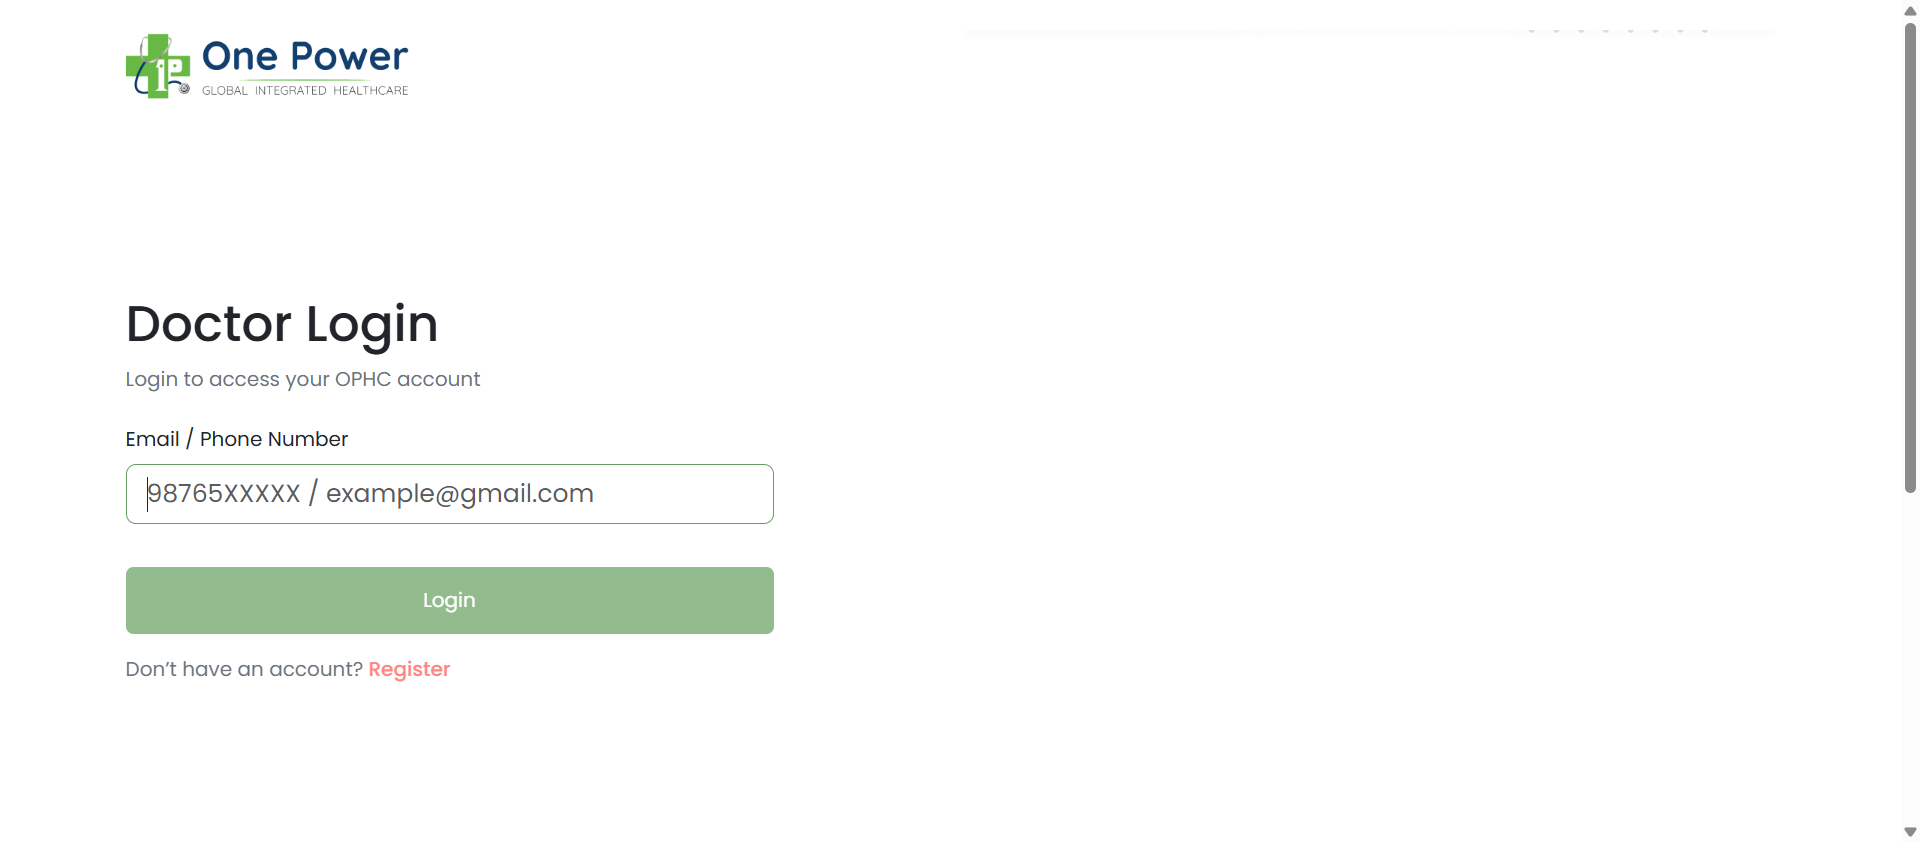
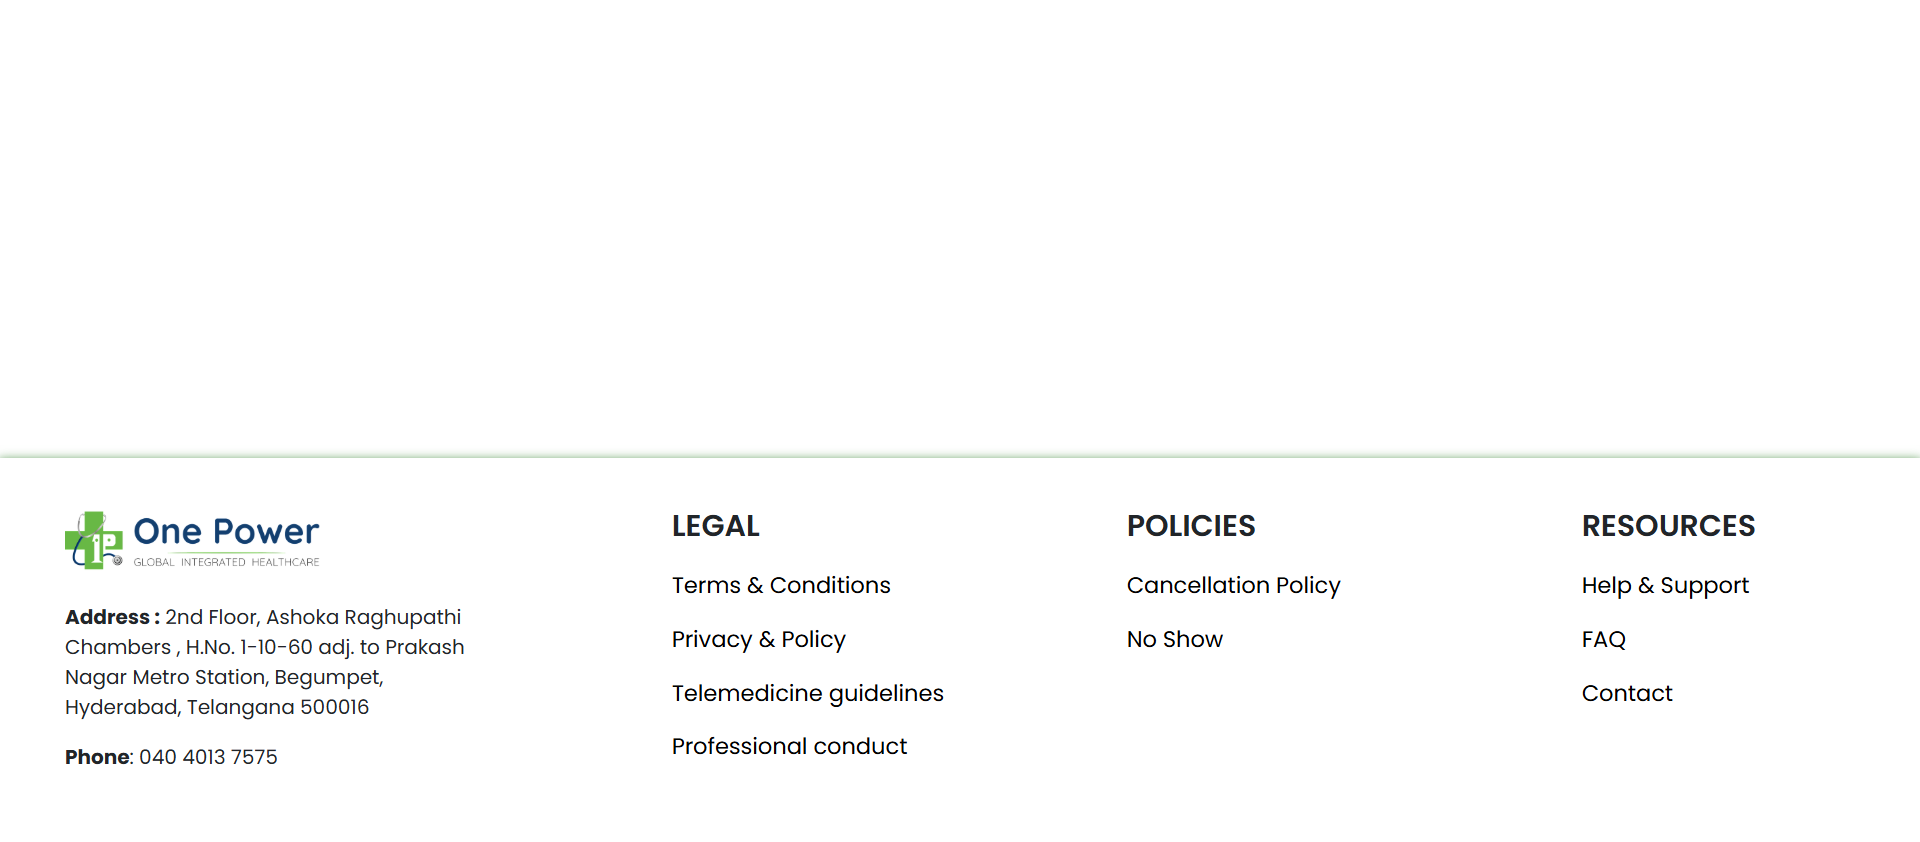
c

diff --git a/test-output/old/Default suite/toc.html b/test-output/old/Default suite/toc.html
@@ -10,10 +10,10 @@
 <tr valign='top'>
 <td>1 test</td>
 <td><a target='mainFrame' href='classes.html'>1 class</a></td>
-<td>1 method:<br/>
+<td>6 methods:<br/>
 &nbsp;&nbsp;<a target='mainFrame' href='methods.html'>chronological</a><br/>
 &nbsp;&nbsp;<a target='mainFrame' href='methods-alphabetical.html'>alphabetical</a><br/>
-&nbsp;&nbsp;<a target='mainFrame' href='methods-not-run.html'>not run (5)</a></td>
+&nbsp;&nbsp;<a target='mainFrame' href='methods-not-run.html'>not run (0)</a></td>
 </tr>
 <tr>
 <td><a target='mainFrame' href='groups.html'>0 group</a></td>
@@ -22,7 +22,7 @@
 </tr></table>
 <table width='100%' class='test-failed'>
 <tr><td>
-<table style='width: 100%'><tr><td valign='top'>Default test (0/1/0)</td><td valign='top' align='right'>
+<table style='width: 100%'><tr><td valign='top'>Default test (3/3/0)</td><td valign='top' align='right'>
   <a href='Default test.html' target='mainFrame'>Results</a>
 </td></tr></table>
 </td></tr><p/>

diff --git a/test-output/old/Default suite/methods-not-run.html b/test-output/old/Default suite/methods-not-run.html
@@ -1,7 +1,2 @@
 <h2>Methods that were not run</h2><table>
-<tr><td>all.Total.LoginToAdminAndApproveNewlyAddedDoctorTest</td></tr>
-<tr><td>all.Total.rejectedDoctorReSubmitingDocumentsTest</td></tr>
-<tr><td>all.Total.DoctorRegistrationTest</td></tr>
-<tr><td>all.Total.loginToDoctorPannelSettingDoctorAvailabilityTest</td></tr>
-<tr><td>all.Total.AdminApprovingDoctorAfterReuploadingDocs</td></tr>
 </table>

diff --git a/test-output/old/index.html b/test-output/old/index.html
@@ -4,6 +4,6 @@
 </head><body>
 <h2><p align='center'>Test results</p></h2>
 <table border='1' width='100%' class='main-page'><tr><th>Suite</th><th>Passed</th><th>Failed</th><th>Skipped</th><th>testng.xml</th></tr>
-<tr align='center' class='invocation-failed'><td><em>Total</em></td><td><em>0</em></td><td><em>1</em></td><td><em>0</em></td><td>&nbsp;</td></tr>
+<tr align='center' class='invocation-failed'><td><em>Total</em></td><td><em>3</em></td><td><em>3</em></td><td><em>0</em></td><td>&nbsp;</td></tr>
 <tr align='center' class='invocation-failed'><td><a href='Default suite/index.html'>Default suite</a></td>
-<td>0</td><td>1</td><td>0</td><td><a href='Default suite/testng.xml.html'>Link</a></td></tr></table></body></html>
+<td>3</td><td>3</td><td>0</td><td><a href='Default suite/testng.xml.html'>Link</a></td></tr></table></body></html>

diff --git a/test-output/old/Default suite/testng.xml.html b/test-output/old/Default suite/testng.xml.html
@@ -1,1 +1,1 @@
-<html><head><title>testng.xml for Default suite</title></head><body><tt>&lt;?xml&nbsp;version="1.0"&nbsp;encoding="UTF-8"?&gt;
<br/>&lt;!DOCTYPE&nbsp;suite&nbsp;SYSTEM&nbsp;"https://testng.org/testng-1.0.dtd"&gt;
<br/>&lt;suite&nbsp;name="Default&nbsp;suite"&nbsp;guice-stage="DEVELOPMENT"&gt;
<br/>&nbsp;&nbsp;&lt;test&nbsp;thread-count="5"&nbsp;name="Default&nbsp;test"&nbsp;verbose="2"&gt;
<br/>&nbsp;&nbsp;&nbsp;&nbsp;&lt;classes&gt;
<br/>&nbsp;&nbsp;&nbsp;&nbsp;&nbsp;&nbsp;&lt;class&nbsp;name="all.Total"&gt;
<br/>&nbsp;&nbsp;&nbsp;&nbsp;&nbsp;&nbsp;&nbsp;&nbsp;&lt;methods&gt;
<br/>&nbsp;&nbsp;&nbsp;&nbsp;&nbsp;&nbsp;&nbsp;&nbsp;&nbsp;&nbsp;&lt;include&nbsp;name="PatientRegisteringAndBookingSameDoctorTest"/&gt;
<br/>&nbsp;&nbsp;&nbsp;&nbsp;&nbsp;&nbsp;&nbsp;&nbsp;&lt;/methods&gt;
<br/>&nbsp;&nbsp;&nbsp;&nbsp;&nbsp;&nbsp;&lt;/class&gt;&nbsp;&lt;!--&nbsp;all.Total&nbsp;--&gt;
<br/>&nbsp;&nbsp;&nbsp;&nbsp;&lt;/classes&gt;
<br/>&nbsp;&nbsp;&lt;/test&gt;&nbsp;&lt;!--&nbsp;Default&nbsp;test&nbsp;--&gt;
<br/>&lt;/suite&gt;&nbsp;&lt;!--&nbsp;Default&nbsp;suite&nbsp;--&gt;
<br/></tt></body></html>
+<html><head><title>testng.xml for Default suite</title></head><body><tt>&lt;?xml&nbsp;version="1.0"&nbsp;encoding="UTF-8"?&gt;
<br/>&lt;!DOCTYPE&nbsp;suite&nbsp;SYSTEM&nbsp;"https://testng.org/testng-1.0.dtd"&gt;
<br/>&lt;suite&nbsp;name="Default&nbsp;suite"&nbsp;guice-stage="DEVELOPMENT"&gt;
<br/>&nbsp;&nbsp;&lt;test&nbsp;thread-count="5"&nbsp;name="Default&nbsp;test"&nbsp;verbose="2"&gt;
<br/>&nbsp;&nbsp;&nbsp;&nbsp;&lt;classes&gt;
<br/>&nbsp;&nbsp;&nbsp;&nbsp;&nbsp;&nbsp;&lt;class&nbsp;name="all.Total"/&gt;
<br/>&nbsp;&nbsp;&nbsp;&nbsp;&lt;/classes&gt;
<br/>&nbsp;&nbsp;&lt;/test&gt;&nbsp;&lt;!--&nbsp;Default&nbsp;test&nbsp;--&gt;
<br/>&lt;/suite&gt;&nbsp;&lt;!--&nbsp;Default&nbsp;suite&nbsp;--&gt;
<br/></tt></body></html>